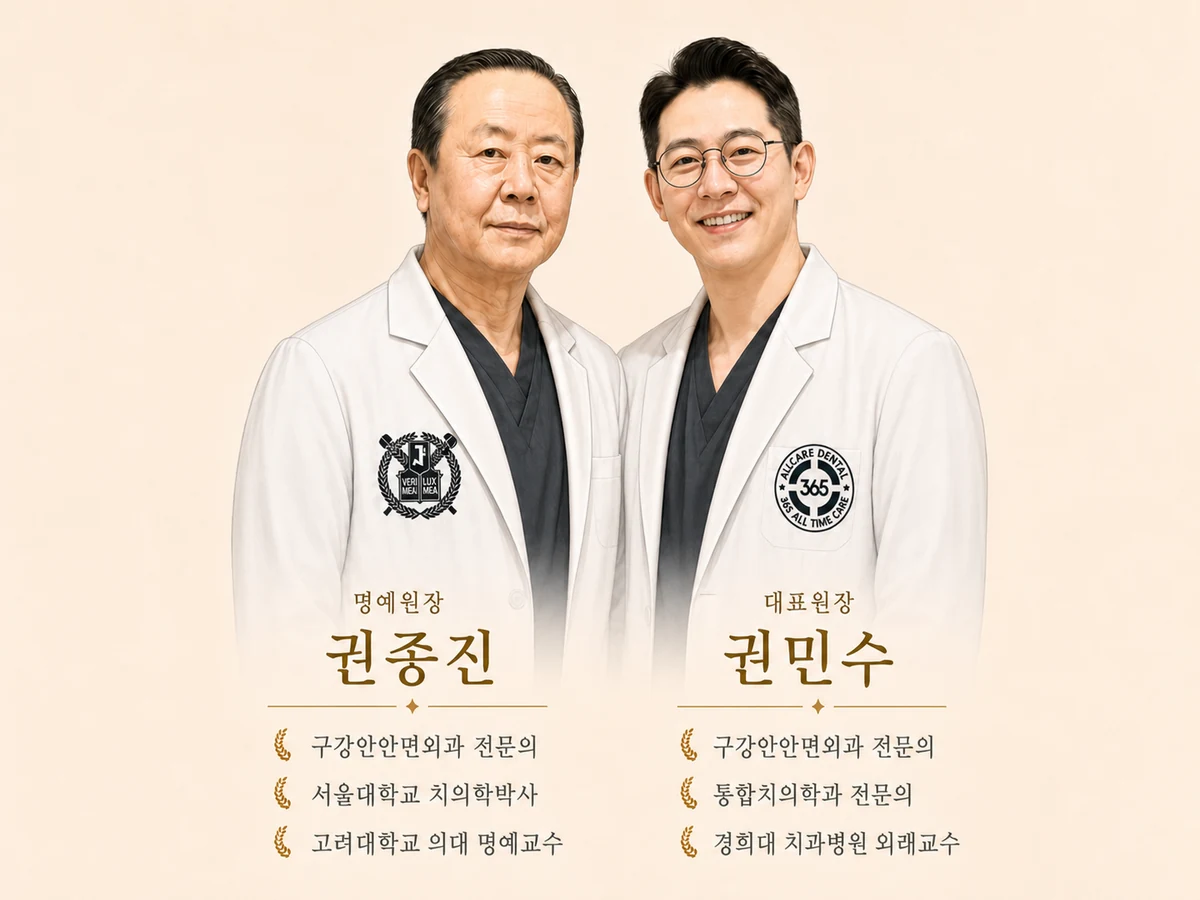
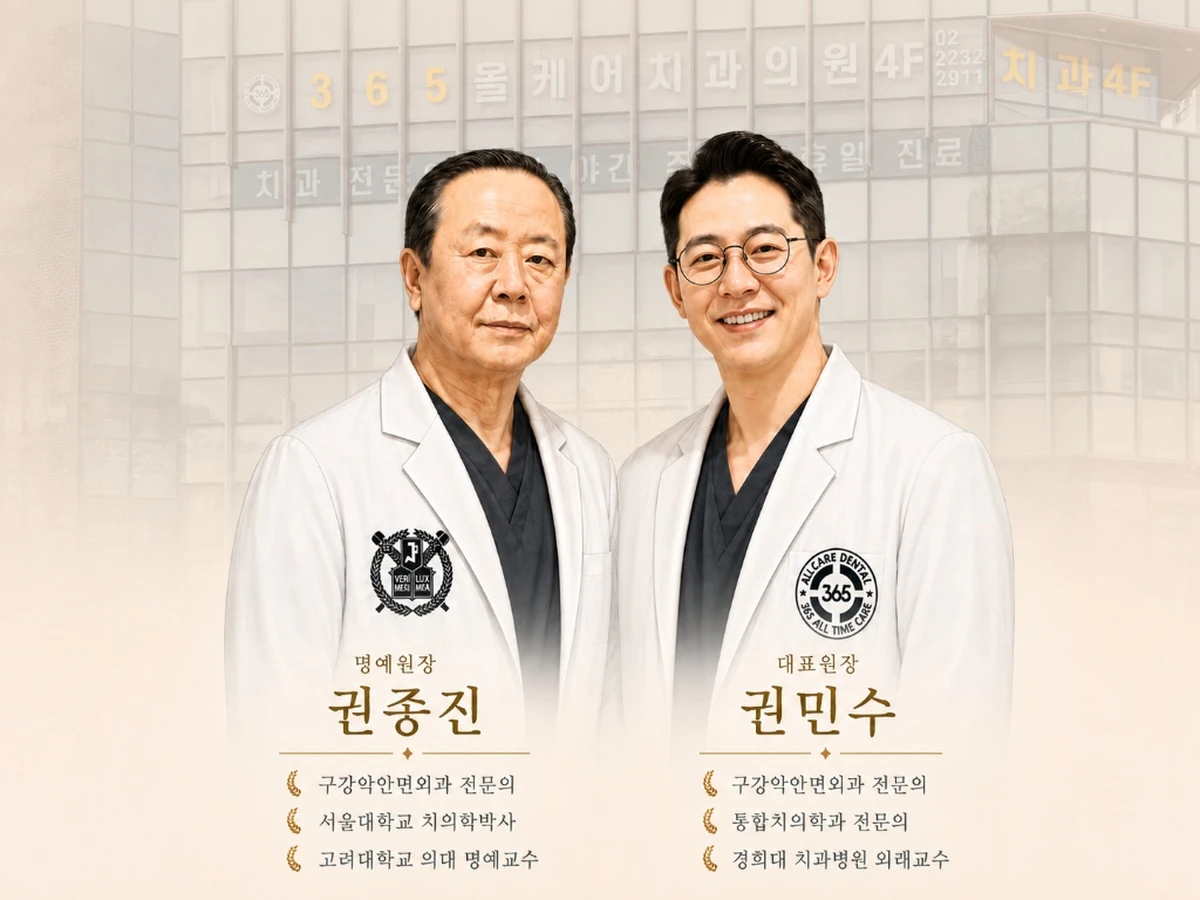
feat(D): 권민수 사진복구·의료진 경력/학력 순서·권종진 카드라인·S6 빌딩사진+본문·디지털기공실 사진·공지팝업 색상·칼럼 카테고리(심미치료/레진인레이/올케어소식 신설)

diff --git a/src/data/clinic.ts b/src/data/clinic.ts
@@ -146,8 +146,10 @@ export const CLINIC = {
     title: '끊김 없는 진료,<br class="br-pc"> 믿고 이어올 수 있는 곳',
     boxNote: "‘2대 부자 진료’는 저희가 내세우는 메인 컨셉이 아니라, 환자분들께 진료의 연속성과 안심을 드리는 서브 스토리입니다.",
     paras: [
+      // §D4: 요청자료-3(02·CONTINUITY OF CARE) 본문 반영
+      '오랜 임상 경험과 전문의의 세심한 진료가 만나, 기존 치료 이력부터 앞으로의 관리 방향까지 함께 살핍니다. 서울대학교를 졸업하고 치의학박사 학위를 취득한 권종진 명예원장은 고려대병원 구강외과 교수로 30년 이상 재직한 뒤, 약수역 인근에서 꾸준히 진료를 이어왔습니다.',
+      '권종진 명예원장의 축적된 임상 경험과 구강악안면외과·통합치의학과 더블보드 전문의인 권민수 대표원장의 세심한 진료를 바탕으로, 기존 치료 이력과 관리 방향까지 면밀히 살피는 일관된 통합진료를 이어갑니다.',
       '저희가 가장 중요하게 생각하는 가치는 단순히 “부자가 함께 진료한다”는 사실 자체가 아닙니다. 오랜 기간 한 원장님을 믿고 다녀오신 환자분들이 낯선 병원으로 흩어지지 않고, 아들이 책임감을 가지고 이어서 케어해드릴 수 있다는 점 ― 진료의 연속성입니다.',
-      '그래서 화려한 약속보다 환자 한 분 한 분의 불편함을 끝까지 들여다보는 일을 먼저 합니다. 한 번 오신 분이 가족과 이웃을 함께 모시고 오는 치과 ― 그것이 지역 안에서 인정받고 오래 머무는 길이라 믿습니다.',
     ],
     facts: [
       '고려대병원 구강외과 교수 약 30년',
@@ -295,6 +297,7 @@ export type Doctor = {
   photo: string
   imgPos?: string   // §S3: 카드 프로필 사진 크롭 통일용 (object-position / transform scale)
   isHead?: boolean
+  cardLine?: string  // §D1: 카드 3번째 줄 표기(미지정 시 career[0] 사용) — 학력·대표직함 요약
 }
 
 // §S9/S17 요청: 노출 순서 권종진(명예원장) → 권민수(대표원장) → 배수현(보철과 원장)
@@ -308,7 +311,6 @@ export const DOCTORS: Doctor[] = [
     treatItems: ['임플란트', '골이식', '턱관절', '주사치료'],  // §S8
     // §L: 추가자료.docx 원문. §B: 방송 출연·"명의/베스트닥터" 비노출, 교수·학회직 등 검증 가능 사실만
     career: [
-      '서울대학교 치과대학 동문',
       '고려대학교 의과대학 명예교수',
       '일본 도쿄의치과대학 교환교수',
       '미국 하버드 치과대학 교환교수',
@@ -328,6 +330,7 @@ export const DOCTORS: Doctor[] = [
     intro: '오랜 경험으로, 환자분께 더 편안한 치료 방향을 제안하는 것을 목표로 합니다. 고려대학교 의과대학에서 약 30년간 구강악안면외과를 가르치고 진료해 왔으며, 이후 약수역 인근 지역에서 오래 환자를 돌봐 온 경험을 바탕으로 임플란트와 턱관절 분야에 깊이를 두고 있습니다. 2026년 4월 올케어치과에 합류해, 오래 다니신 환자분들의 진료 기록과 치료 이력을 그대로 이어 케어합니다. 환자분의 불편을 줄이고 오래 안정적으로 사용할 수 있는 치료를 지향합니다.',
     photo: '/static/img/kwon-jongjin.webp',
     imgPos: 'object-position:center 22%',   // §S3: 얼굴이 큰 편 → 위쪽 여백 확보로 배수현 기준에 맞춤
+    cardLine: '서울대학교 치의학박사 · 고려대학교 의과대학 명예교수',  // §D1: 카드 3번째 줄
   },
   {
     slug: 'kwon-minsu',
@@ -339,7 +342,7 @@ export const DOCTORS: Doctor[] = [
     // §L: 신청서 원문(추가자료.docx) 그대로 — 검증 가능한 자격·학회 사실만. §B: 방송·"명의" 비노출
     career: [
       '경희대학교 치과병원 구강악안면외과 외래교수',
-      '경희대학교 치과병원 구강악안면외과 레지던트 수련',
+      '경희대학교 치과병원 구강악안면외과 레지던트',
       '경희의료원 마취통증의학과 · 응급의학과 연수',
       '대한악안면성형재건외과학회 인정의',
       '대한심미치과학회 인정의 (Fellow)',
@@ -363,7 +366,8 @@ export const DOCTORS: Doctor[] = [
     ],
     // §B 필터: 약점(심미/라미네이트) 노출 X → 강점(수술·외과·교수경력) 리프레이밍. 철학은 자료 원문
     intro: '어려운 치료도, 환자분이 이해하고 안심할 수 있게 설명하는 것을 목표로 합니다. 구강악안면외과 전문의로서 고난도 임플란트 수술, 매복 사랑니, 턱관절 등 외과 영역에 깊이를 두고, 경희대학교 치과병원 외래교수로 후학을 가르쳐 온 경험을 진료에 녹여냅니다. 통합치의학과 전문의 관점에서 입안 전체의 상태를 함께 살펴 오래 안정적인 치료를 지향하며, 환자가 두려워하는 진료일수록 더 차분하고 정밀하게 다가가고, 필요한 경우 의식하진정법(수면치료)을 병행해 불안과 부담을 줄입니다.',
-    imgPos: 'object-position:center 12%',   // §S3/§2차수정: transform:scale 제거(모바일 렌더 깨짐 원인) → object-position만으로 배수현 기준 프레이밍
+    photo: '/static/img/kwon-minsu-profile.webp',
+    imgPos: 'object-position:center 12%',   // §S3/§2차수정: transform:scale 제거(모바일 렌더 깨짐 원인) → object-position만으로 배수현 기준 프레이밍. §D2: photo 필드 복구(누락으로 카드 빈칸 렌더되던 버그)
     isHead: true,
   },
   {
@@ -376,7 +380,7 @@ export const DOCTORS: Doctor[] = [
     // §L: 추가자료.docx 원문 그대로. 철학은 자료 원문
     career: [
       '경북대학교 치과병원 치과보철과 외래교수',
-      '경북대학교 치과병원 치과보철과 레지던트 수련',
+      '경북대학교 치과병원 치과보철과 레지던트',
       '경북대학교 치과병원 치과보철과 인턴',
       '서울대학교 치의학대학원 교육연수원 임플란트 과정 수료',
       '대한치과보철학회(KAP) 정회원',
@@ -925,6 +929,39 @@ export const SUB_TREATMENTS = TREATMENTS.filter(t => !t.core).sort((a, b) => {
 
 export function getTreatment(slug: string) {
   return TREATMENTS.find(t => t.slug === slug)
+}
+
+// ============================================================
+// §D7: 칼럼 진료 카테고리 (칼럼 전용 — TREATMENTS와 분리)
+//   진료 페이지 slug를 그대로 쓰되, 칼럼에서만 쓰는 라벨/신설 카테고리를 여기서 관리.
+//   - 심미보철 → '심미치료' 로 표기(칼럼 한정)
+//   - '레진·인레이', '올케어 소식' 은 진료 페이지가 없는 칼럼 전용 신설 카테고리
+// ============================================================
+export type ColumnCategory = { slug: string; name: string }
+export const COLUMN_CATEGORIES: ColumnCategory[] = [
+  { slug: 'implant', name: '임플란트' },
+  { slug: 'ortho', name: '치아교정' },
+  { slug: 'esthetic', name: '심미치료' },          // §D7: 심미보철 → 심미치료
+  { slug: 'resin-inlay', name: '레진·인레이' },     // §D7: 신설
+  { slug: 'sleep', name: '수면치료' },
+  { slug: 'tmj', name: '턱관절' },
+  { slug: 'conservative', name: '충치·신경치료' },
+  { slug: 'gum', name: '잇몸치료' },
+  { slug: 'denture', name: '틀니' },
+  { slug: 'whitening', name: '미백' },
+  { slug: 'surgery', name: '구강외과·사랑니' },
+  { slug: 'news', name: '올케어 소식' },            // §D7: 신설
+]
+// 칼럼 카테고리 표기명 — 신설 카테고리 우선, 없으면 진료명 폴백
+// (구 seed 데이터의 영문 slug 별칭도 흡수해 영문 노출 방지)
+const COLUMN_CAT_ALIAS: Record<string, string> = {
+  periodontal: 'gum', orthodontics: 'ortho', prosthetics: 'esthetic',
+}
+export function columnCategoryName(slug: string): string {
+  const s = COLUMN_CAT_ALIAS[slug] || slug
+  return COLUMN_CATEGORIES.find(c => c.slug === s)?.name
+    || TREATMENTS.find(t => t.slug === s)?.name
+    || s
 }
 export function getDoctor(slug: string) {
   return DOCTORS.find(d => d.slug === slug)

diff --git a/src/pages/admin.ts b/src/pages/admin.ts
@@ -1,5 +1,5 @@
 import { html, raw } from 'hono/html'
-import { CLINIC, TREATMENTS, DOCTORS } from '../data/clinic'
+import { CLINIC, TREATMENTS, DOCTORS, COLUMN_CATEGORIES, columnCategoryName } from '../data/clinic'
 import { eventStatus } from './event'
 
 // 관리자 셸 (사이드바)
@@ -374,7 +374,7 @@ export function AdminColumns(items: any[], views: Record<string, number> = {}) {
       <table><thead><tr><th>작성일</th><th>제목</th><th>진료</th><th>작성자</th><th>조회수</th><th>상태</th><th>관리</th></tr></thead><tbody>
       ${raw(items.map(c => `<tr>
         <td>${new Date(c.createdAt).toLocaleDateString('ko-KR', { timeZone: 'Asia/Seoul' })}</td>
-        <td><strong>${c.title}</strong></td><td>${TREATMENTS.find(t=>t.slug===c.category)?.name||'-'}</td>
+        <td><strong>${c.title}</strong></td><td>${columnCategoryName(c.category)}</td>
         <td>${DOCTORS.find(d=>d.slug===c.author)?.name||'-'}</td>
         <td><i class="fa-regular fa-eye" style="color:var(--gray-600);font-size:12px"></i> ${views[c.id] || 0}</td>
         <td><span class="badge ${c.published?'new':'done'}">${c.published?'게시':'임시'}</span></td>
@@ -494,7 +494,7 @@ export function AdminColumnForm(col?: any) {
           <div class="admin-card">
             <h3 style="margin:0 0 14px;font-size:1.05rem"><i class="fa-solid fa-gear" style="color:var(--gold,#b08d57)"></i> 발행 설정</h3>
             <div class="field"><label>진료 카테고리 <span class="req">*</span></label>
-              <select name="category" required>${raw(TREATMENTS.map(t => `<option value="${t.slug}" ${c.category === t.slug ? 'selected' : ''}>${t.name}</option>`).join(''))}</select></div>
+              <select name="category" required>${raw(COLUMN_CATEGORIES.map(t => `<option value="${t.slug}" ${c.category === t.slug ? 'selected' : ''}>${t.name}</option>`).join(''))}</select></div>
             <div class="field"><label>작성자(원장) <span class="req">*</span></label>
               <select name="author" required>${raw(DOCTORS.map(d => `<option value="${d.slug}" ${c.author === d.slug ? 'selected' : ''}>${d.name} ${d.role}</option>`).join(''))}</select></div>
             <div class="field"><label>대표(썸네일) 이미지 <span style="font-weight:500;color:var(--gray-400);font-size:12px">권장 1200×630px (카드·카톡·SNS 공유 공통)</span></label>
@@ -722,7 +722,7 @@ export function AdminNotices(items: any[], views: Record<string, number> = {}) {
         const popupLive = n.popup && (!n.popupUntil || n.popupUntil >= today)
         const popupExpired = n.popup && n.popupUntil && n.popupUntil < today
         const popupCell = popupLive
-          ? `<span class="badge new" style="background:#1f7a4d">노출중${n.popupUntil ? ` <span style="opacity:.8">~${n.popupUntil}</span>` : ''}</span>`
+          ? `<span class="badge new" style="background:var(--gold,#b08d57);color:#fffdf5">노출중${n.popupUntil ? ` <span style="opacity:.85">~${n.popupUntil}</span>` : ''}</span>`
           : popupExpired ? `<span class="badge" style="background:#aaa;color:#fff">만료</span>` : '-'
         return `<tr>
         <td>${new Date(n.createdAt).toLocaleDateString('ko-KR', { timeZone: 'Asia/Seoul' })}</td><td><strong>${n.title}</strong></td>

diff --git a/src/pages/doctors.ts b/src/pages/doctors.ts
@@ -26,7 +26,7 @@ export function DoctorsIndex() {
               <span class="role">${d.role}</span>
               <h2>${d.name}</h2>
               <p class="title-line">${d.titleLine}</p>
-              <p class="doc-career">${d.career[0]}</p>
+              <p class="doc-career">${d.cardLine || d.career[0]}</p>
               <div class="doc-tags">
                 ${d.treatItems.map(t => `<span>${t}</span>`).join('')}
               </div>
@@ -109,14 +109,14 @@ export function DoctorDetail(slug: string) {
           <div class="prose">
             <div class="answer-box" style="font-size:1.1rem">${d.intro}</div>
 
-            <h3><i class="fa-solid fa-graduation-cap text-mint"></i> 학력</h3>
-            <ul class="check">
-              ${raw(d.education.map(e => `<li>${e}</li>`).join(''))}
-            </ul>
-
             <h3><i class="fa-solid fa-briefcase-medical text-mint"></i> 경력 · 수련</h3>
             <ul class="check">
               ${raw(d.career.map(c => `<li>${c}</li>`).join(''))}
+            </ul>
+
+            <h3><i class="fa-solid fa-graduation-cap text-mint"></i> 학력</h3>
+            <ul class="check">
+              ${raw(d.education.map(e => `<li>${e}</li>`).join(''))}
             </ul>
           </div>
         </article>

diff --git a/src/pages/home.ts b/src/pages/home.ts
@@ -245,7 +245,7 @@ export function HomePage(popup?: { id: string; title: string; body: string; imag
         </div>
         <div class="lab-grid">
           <figure class="lab-cell lab-cell--wide">
-            <img src="/static/img/lab-cad.webp" alt="원내 기공실 CAD 보철 설계 모니터 — 3Shape 디지털 디자인" loading="lazy">
+            <img src="/static/img/lab-cad.webp" alt="원내 기공실 상주 기공사가 3Shape CAD 프로그램으로 보철물을 디지털 디자인하는 모습" loading="lazy">
             <figcaption>CAD 보철 설계 — 디지털 디자인</figcaption>
           </figure>
           <figure class="lab-cell">
@@ -261,7 +261,7 @@ export function HomePage(popup?: { id: string; title: string; body: string; imag
             <figcaption>3D 프린팅</figcaption>
           </figure>
           <figure class="lab-cell">
-            <img src="/static/img/lab-scan.webp" alt="원내 기공실 디지털 스캐너" loading="lazy">
+            <img src="/static/img/lab-scan.webp" alt="구강 스캐너로 환자의 치아를 디지털 스캔해 모니터에 3D로 확인하는 모습" loading="lazy">
             <figcaption>디지털 스캔</figcaption>
           </figure>
         </div>

diff --git a/src/pages/column.ts b/src/pages/column.ts
@@ -1,7 +1,7 @@
 import { html, raw } from 'hono/html'
 import { Page, PageHero } from '../components/page'
 import { breadcrumbSchema } from '../components/layout'
-import { CLINIC, TREATMENTS, DOCTORS, getDoctor, getTreatment } from '../data/clinic'
+import { CLINIC, TREATMENTS, DOCTORS, getDoctor, getTreatment, columnCategoryName } from '../data/clinic'
 
 export type ColumnFAQ = { q: string; a: string }
 
@@ -24,7 +24,7 @@ export type Column = {
   updatedAt: number
 }
 
-const txName = (s: string) => getTreatment(s)?.name || s
+const txName = (s: string) => columnCategoryName(s)
 const docName = (s: string) => getDoctor(s)?.name || ''
 
 // §S7: 날짜 버그 방어 — createdAt이 없거나 1970-01-01 이전(0·undefined·Invalid)이면
